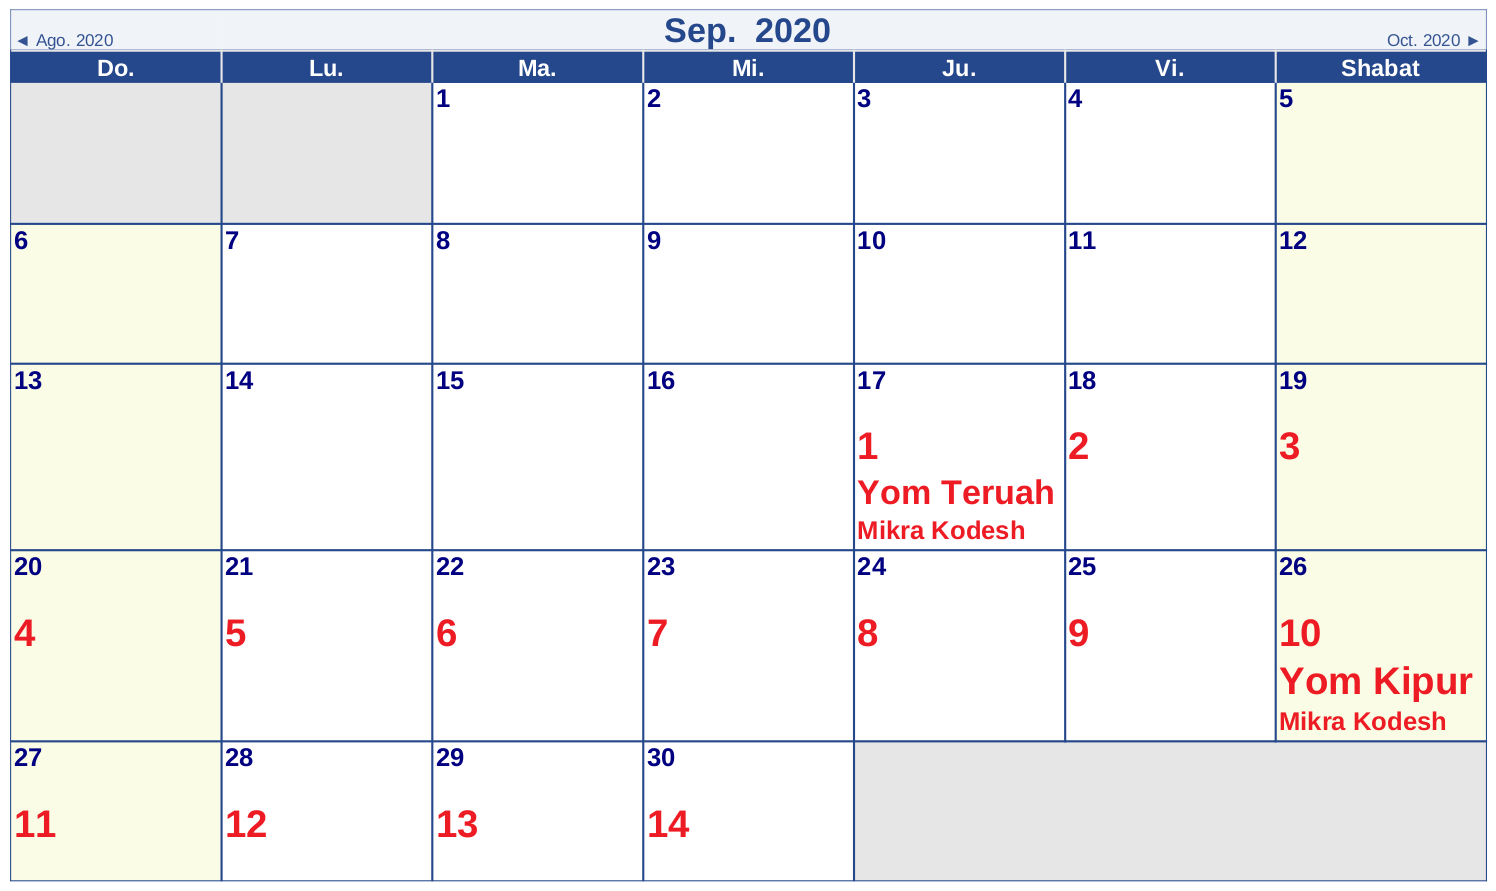
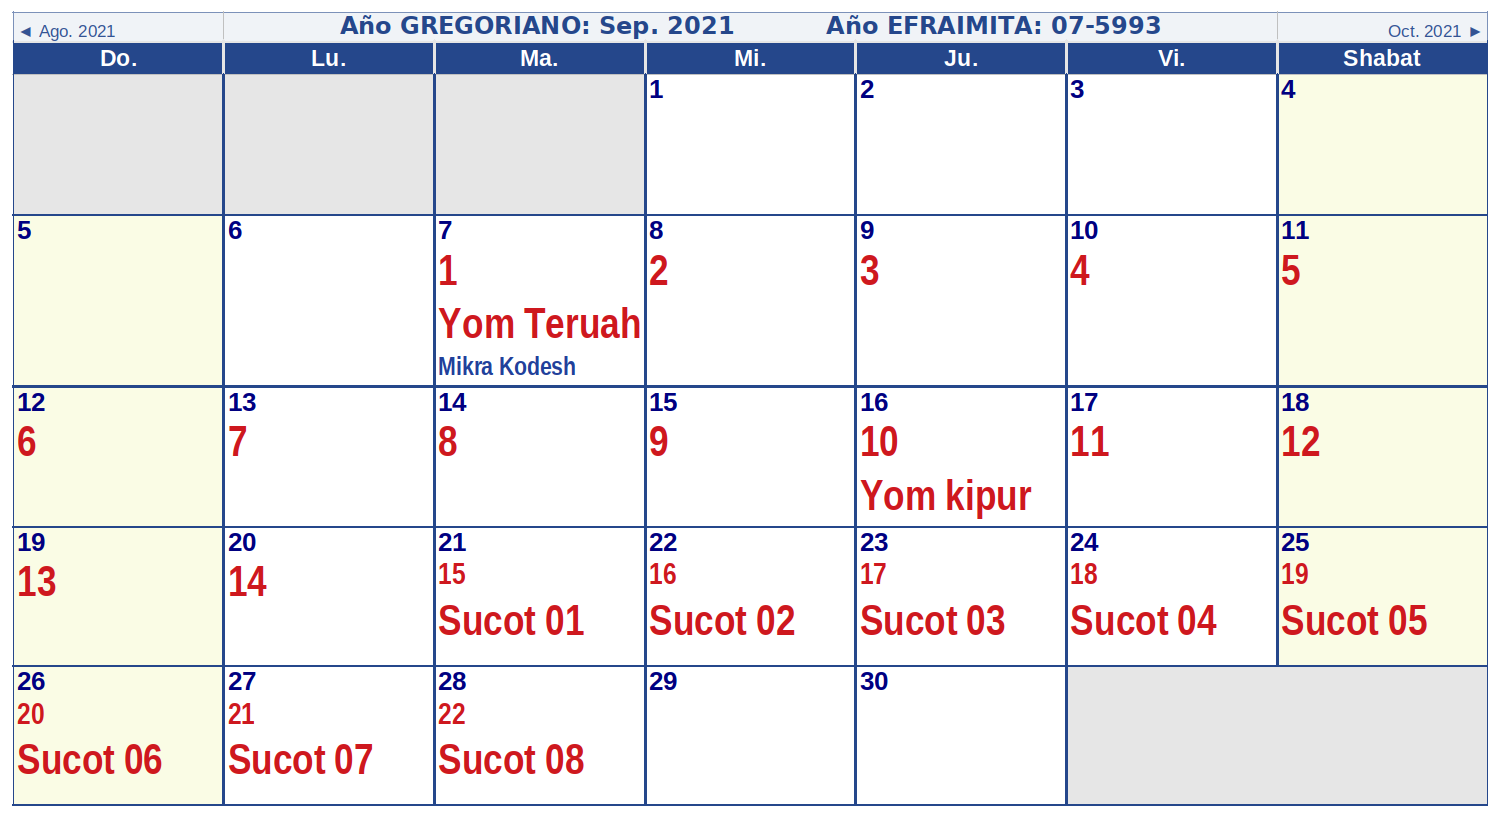
Luaj 2021

Changed region(s): [[0.0, 0.0, 1.0, 1.0], [0.4305, 0.9135, 0.4612, 0.944], [0.0, 0.0914, 0.0307, 0.1218]]

diff --git a/luaj.php b/luaj.php
@@ -72,15 +72,11 @@ style="background-image: url('img/banner/luaj-min.jpg');
     	<i class="fas fa-bread-slice"></i>
   		Jag Pesaj
 	</h1>
-	<img src="img/luaj/luaj-pesaj-2020.png" 
+	<img src="img/luaj/luaj-pesaj.png" 
   	class="mx-auto d-block img-fluid" alt="Luaj pesaj 2020">
 
   	<h3 class="text-center c-text-blue py-1">Equinoccio</h3>  
-  	<h3 class="text-center c-text-blue py-1">Rosh hodesh = yom 1 del 5992</h3>
-
-  	<img src="img/luaj/luaj-pesajc-2020.png" 
-  	class="mx-auto d-block img-fluid" alt="Rosh hodesh = yom 1 del 5992">
-  	<h6 class="py-3">Luaj para la Jag Pesaj 2020 <a href="pdf/luaj/luaj-pesaj-2020.pdf" class="btn btn-primary" target="_blank">Descargar</a></h6>
+  	<h3 class="text-center c-text-blue py-1">Rosh hodesh = yom 1 del 5993</h3>
 </div> <!-- End containter-fluid Jag Pesaj-->
 
 <!-- Begin container-fluid Jag Shavout-->
@@ -91,13 +87,16 @@ style="background-image: url('img/banner/luaj-min.jpg');
   	<h3 class="text-center c-text-blue py-3">
   	La cuenta del Omer</h3>
 
-  	<img src="img/luaj/luaj-shavuot-2020.png" 
-  	class="mx-auto d-block img-fluid" alt="Rosh hodesh = yom 1 del 5992">
+  	<img src="img/luaj/luaj-shavuot.png" 
+  	class="mx-auto d-block img-fluid" alt="Rosh hodesh = yom 1 del 5993">
+    <br>
+  	<img src="img/luaj/luaj-shavuot2.png" 
+  	class="mx-auto d-block img-fluid" alt="Rosh hodesh = yom 1 del 5993">
 
-  	<img src="img/luaj/luaj-shavuotc-2020.png" 
-  	class="mx-auto d-block img-fluid" alt="Rosh hodesh = yom 1 del 5992">
+    <br>
+    <img src="img/luaj/luaj-shavuot3.png" 
+    class="mx-auto d-block img-fluid" alt="Rosh hodesh = yom 1 del 5993">
 
-  	<h6 class="py-3">Luaj para la Jag Shavuot 2020 <a href="pdf/luaj/luaj-shavuot-2020.pdf" class="btn btn-primary" target="_blank">Descargar</a></h6>
 </div> <!-- End containter-fluid Jag Shavuot-->
 
 <!-- Begin container-fluid La cuenta del Rosh Jodesh-->
@@ -107,33 +106,33 @@ style="background-image: url('img/banner/luaj-min.jpg');
   		La cuenta del Rosh Jodesh
   </h1>
   <ul class="list-group shadow">
-    <li class="list-group-item active"><b>Rosh Jodesh 01 - Ma. 24 Mar. 2020</b>
+    <li class="list-group-item active"><b>Rosh Jodesh 01 - Sha. 13 Mar. 2021</b>
     </li>
     <li class="list-group-item">
-    	Rosh Jodesh 02 - Ju. 23 Abr. 2020</li>
+    	Rosh Jodesh 02 - Lun. 12 Abr. 2021</li>
     <li class="list-group-item">
-    	Rosh Jodesh 03 - Vi. 22 May. 2020</li>
+    	Rosh Jodesh 03 - Mar. 11 May. 2021</li>
     <li class="list-group-item">
-    	Rosh Jodesh 04 - Do. 21 Jun. 2020</li>
+    	Rosh Jodesh 04 - Jue. 10 Jun. 2021</li>
     <li class="list-group-item">
-    	Rosh Jodesh 05 - Lu. 20 Jul. 2020</li>
+    	Rosh Jodesh 05 - Sha. 10 Jul. 2021</li>
     <li class="list-group-item">
-    	Rosh Jodesh 06 - Mi. 19 Ago. 2020</li>
+    	Rosh Jodesh 06 - Dom. 08 Ago. 2021</li>
     <li class="list-group-item">
-    	Rosh Jodesh 07 - Ju. 17 Sep. 2020 <b>Yom Teruah</b>
+    	Rosh Jodesh 07 - Mar. 07 Sep. 2021<b> Yom Teruah</b>
     </li>
     <li class="list-group-item">
-    	Rosh Jodesh 08 - Vi. 16 Oct. 2020</li>
+    	Rosh Jodesh 08 - Mie. 06 Oct. 2021</li>
     <li class="list-group-item">
-    	Rosh Jodesh 09 - Do. 15 Nov. 2020</li>
+    	Rosh Jodesh 09 - Jue. 04 Nov. 2021</li>
     <li class="list-group-item">
-    	Rosh Jodesh 10 - Lu. 14 Dic. 2020</li>
+    	Rosh Jodesh 10 - Sha. 04 Dec. 2021</li>
     <li class="list-group-item">
-    	Rosh Jodesh 11 - Mi. 13 Ene. 2021</li>
+    	Rosh Jodesh 11 - Dom. 02 Ene. 2021</li>
     <li class="list-group-item">
-    	Rosh Jodesh 12 - Ju. 11 Feb. 2021</li>
+    	Rosh Jodesh 12 - Mar. 01 Feb. 2021</li>
     <li class="list-group-item active">
-    	<b>Rosh Jodesh 01 - Sh. 13 Mar. 2021</b>
+    	<b>Rosh Jodesh 01 - Mie 02 Mar. 2022</b>
     </li>
   </ul>
 </div> <!-- End containter-fluid La cuenta del Rosh Jodesh-->
@@ -148,11 +147,6 @@ style="background-image: url('img/banner/luaj-min.jpg');
   	class="mx-auto d-block img-fluid" 
   	alt="Jodesh 07">
 
-  <img src="img/luaj/luaj-jodesh07c.png"
-  class="mx-auto d-block img-fluid" 
-  alt="Jodesh 07">
-
-  <h6 class="py-3">Luaj para para el Jodesh 07 <a href="pdf/luaj/luaj-jodesh07-2020.pdf" class="btn btn-primary" target="_blank">Descargar</a></h6>
 </div>
 <!-- End containter-fluid Jodesh 07 !-->
 
